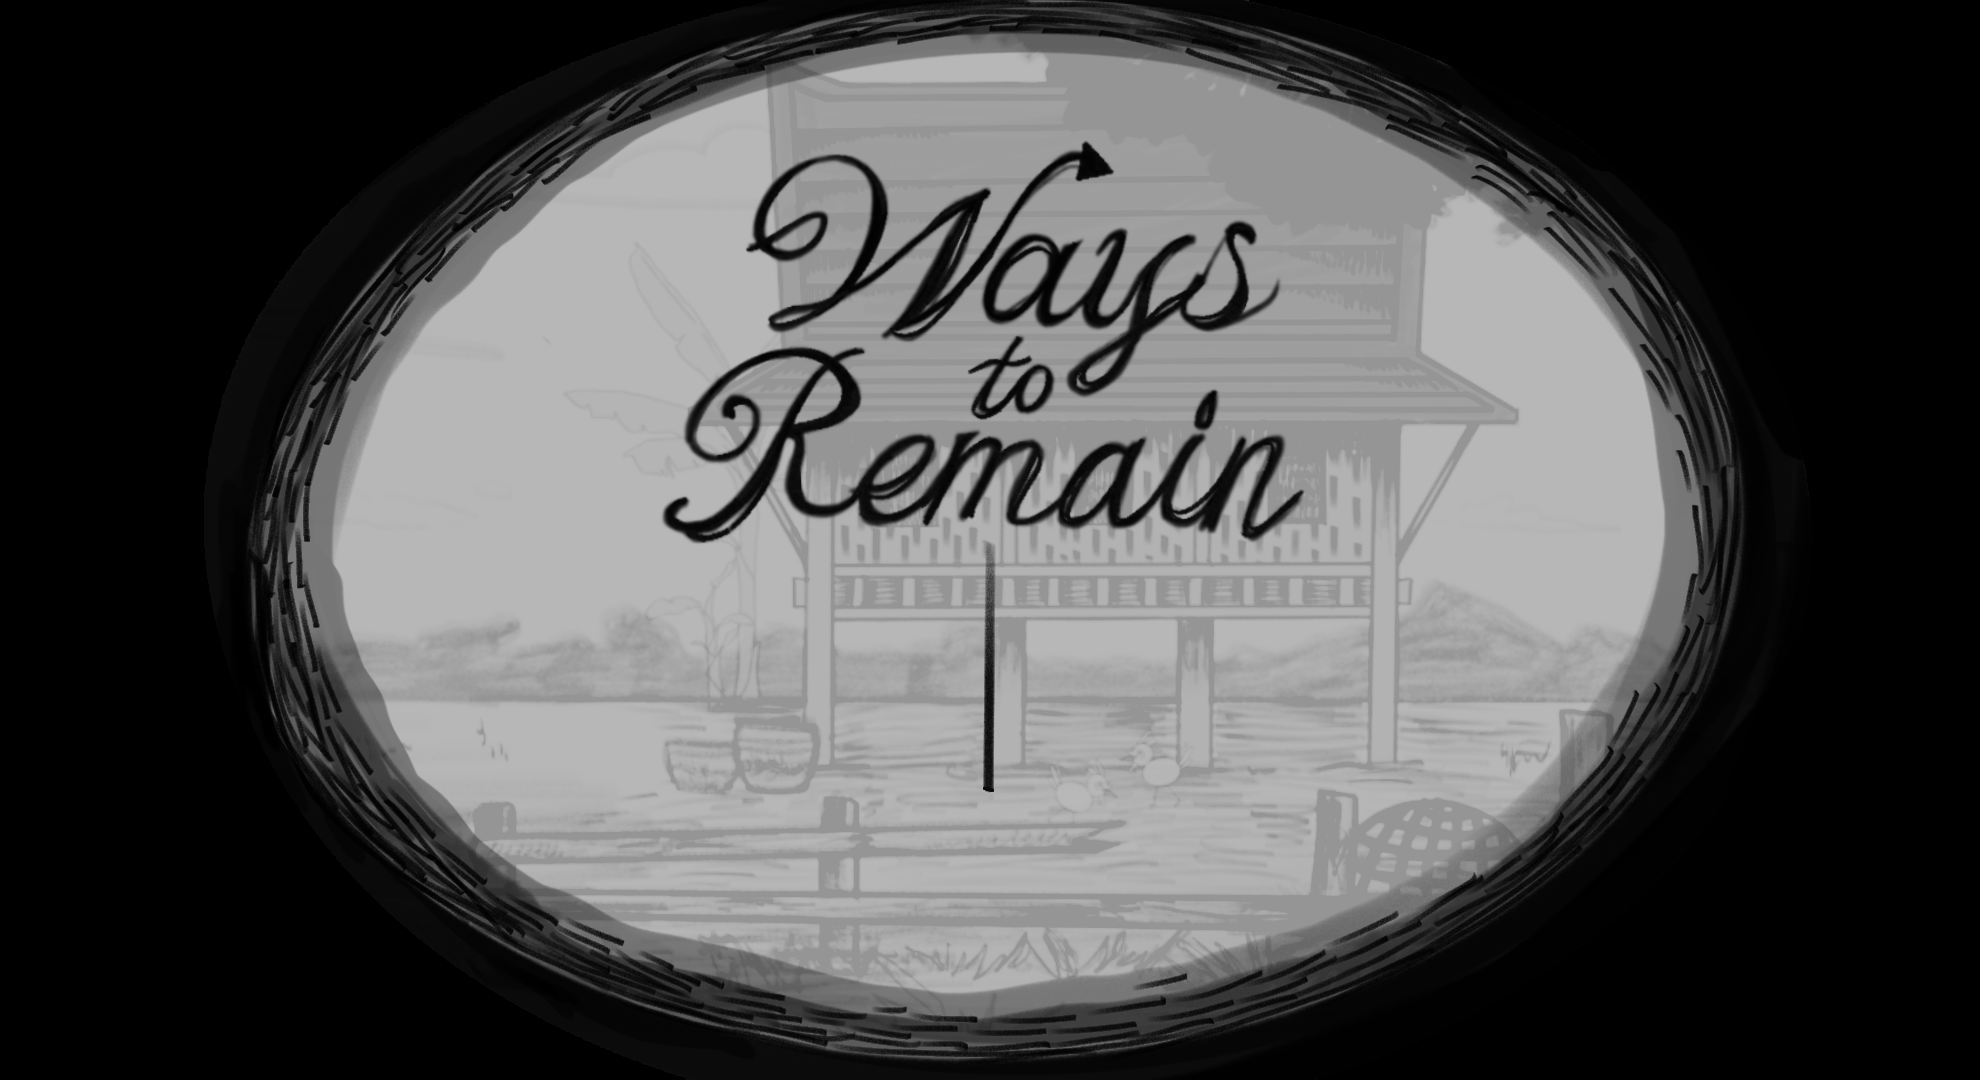
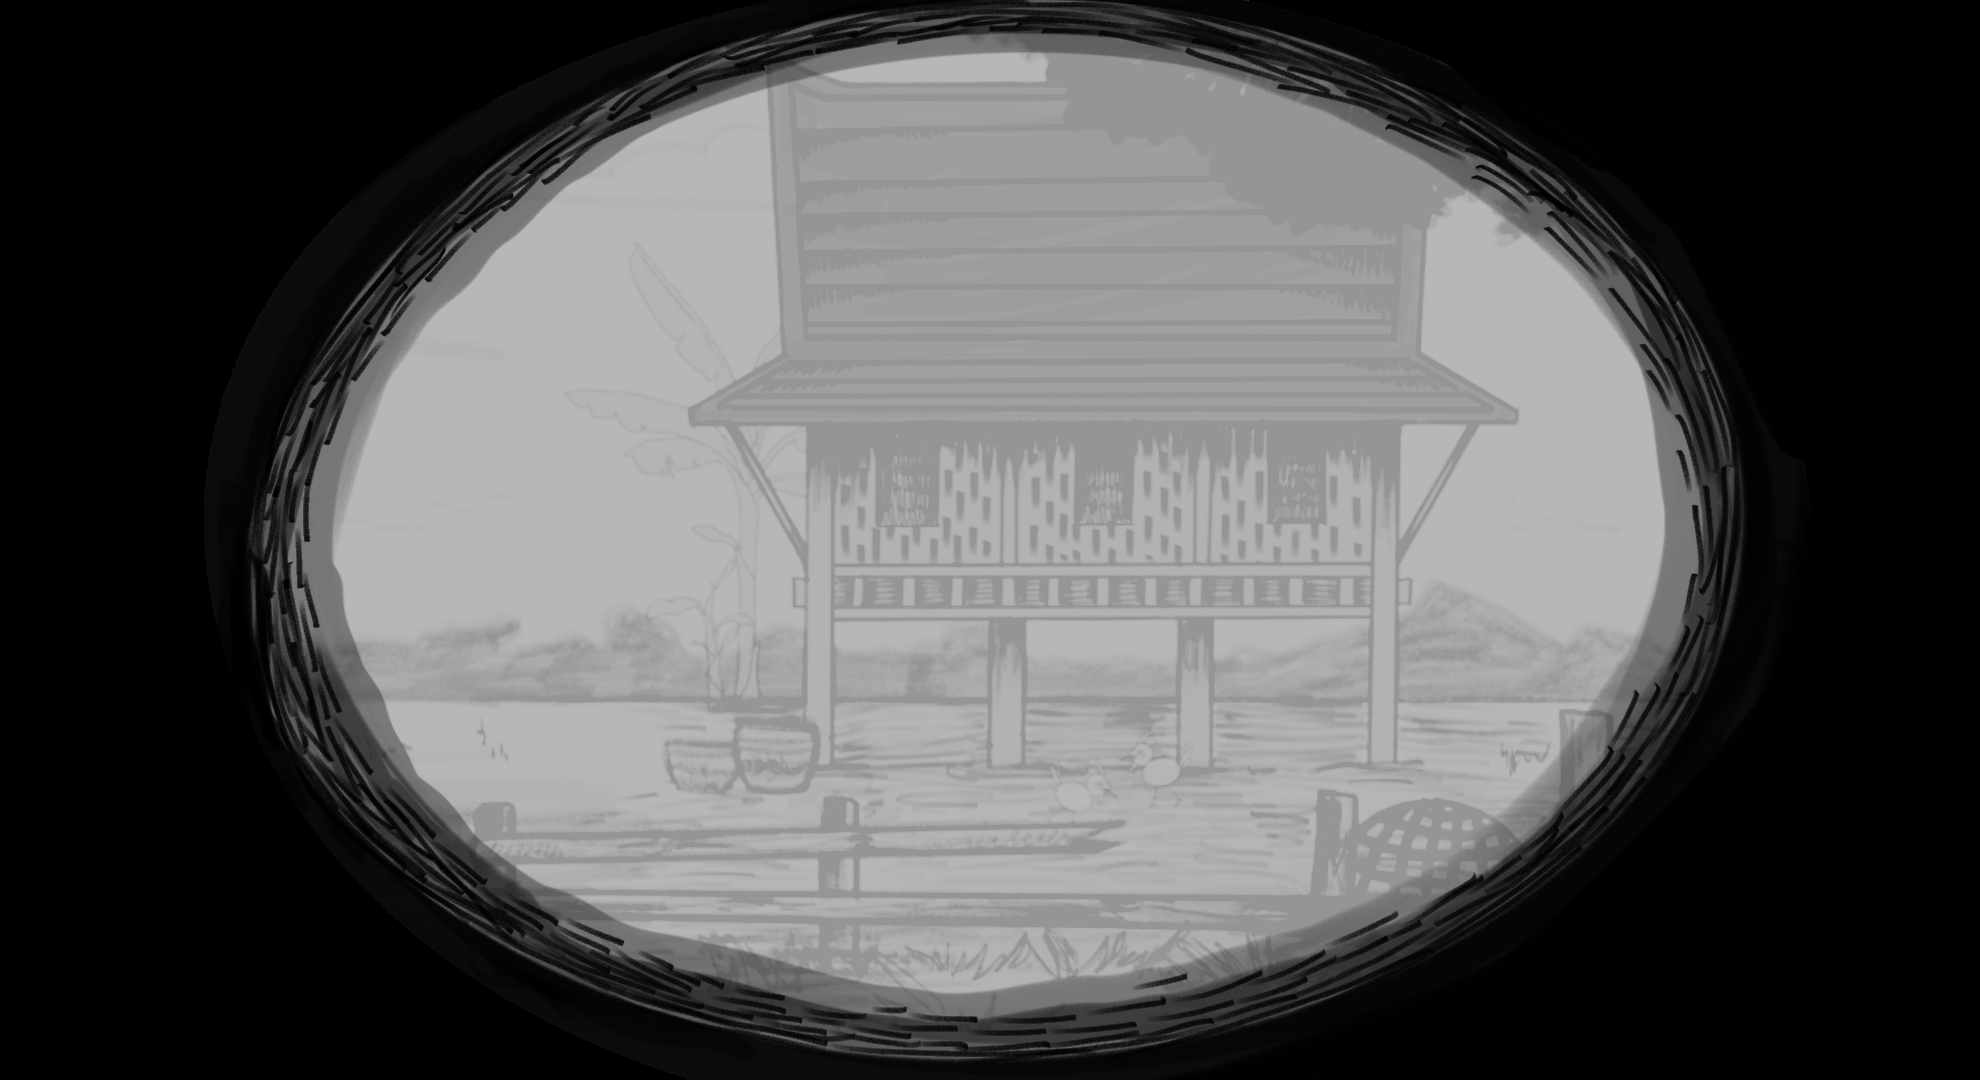
Seat the Japan monk on the ground shadow at reference scale

Changed region(s): [[0.3389, 0.1222, 0.6778, 0.5194], [0.4929, 0.5194, 0.5237, 0.7333], [0.4005, 0.1222, 0.4313, 0.1528]]

diff --git a/js/core/progress.js b/js/core/progress.js
@@ -7,14 +7,24 @@
   const ORDER = ['bangkok', 'roiet', 'papua', 'japan'];
   const KEY = 'wtr:done';
 
-  /* บางเครื่องปิด storage ไว้ (โหมดส่วนตัว / บล็อกคุกกี้) ถ้าพึ่ง localStorage อย่างเดียว
+  /* ใช้ sessionStorage ไม่ใช่ localStorage — ความคืบหน้าอยู่แค่ในรอบที่เปิดเบราว์เซอร์นั้น
+     ปิดแท็บแล้วเปิดใหม่ = เริ่มจากด่านแรกที่ล็อกไว้เหมือนเดิม
+     เพราะถ้าเก็บถาวร พอเล่นจบครั้งเดียวด่านจะเปิดหมดตลอดไป
+     แล้วคนที่มาเปิดดูทีหลังจะไม่ได้เห็นระบบล็อกด่านเลย
+     (เสียงเปิด/ปิดยังเก็บใน localStorage เหมือนเดิม อันนั้นเป็นค่าที่ตั้งไว้ ไม่ใช่ความคืบหน้า)
+
+     บางเครื่องปิด storage ไว้ (โหมดส่วนตัว / บล็อกคุกกี้) ถ้าพึ่ง storage อย่างเดียว
      ผู้เล่นจะติดอยู่ด่านแรกตลอดไป เลยมีตัวสำรองในหน่วยความจำไว้ให้เล่นจบได้ในรอบนั้น */
   let memory = null;
+
+  /* เวอร์ชันก่อนเก็บไว้ใน localStorage เครื่องที่เคยเล่นเวอร์ชันเก่าจะมีค่าค้างอยู่
+     ตอนนี้ไม่ได้อ่านแล้ว แต่เก็บกวาดทิ้งให้เรียบร้อย จะได้ไม่มีขยะค้างในเครื่องผู้เล่น */
+  try { localStorage.removeItem(KEY); } catch (e) {}
 
   function read() {
     if (memory) return memory.slice();
     try {
-      const raw = localStorage.getItem(KEY);
+      const raw = sessionStorage.getItem(KEY);
       return raw ? JSON.parse(raw) : [];
     } catch (e) {
       memory = [];
@@ -24,7 +34,7 @@
 
   function write(list) {
     if (memory) { memory = list.slice(); return; }
-    try { localStorage.setItem(KEY, JSON.stringify(list)); }
+    try { sessionStorage.setItem(KEY, JSON.stringify(list)); }
     catch (e) { memory = list.slice(); }
   }
 

diff --git a/data/japan-ritual.js b/data/japan-ritual.js
@@ -16,7 +16,13 @@ window.JAPAN_RITUAL = {
     cover: true,
     layers: [
       { id: 'bg',   src: '../assets/ritual/bg-japan.png' },
-      { id: 'monk', src: '../assets/ritual/japan/monk.png' },
+      /* ขนาดกับตำแหน่งอิงภาพ reference ที่ลูกค้าส่งมา
+         ต้องนั่งอยู่บน "เงาที่ขีดไว้" ในภาพพื้นหลัง ซึ่งอยู่ราวๆ y 78-90% ของแคนวาส
+         (ก่อนหน้านี้วางไว้ที่ 28% จากขอบล่าง ซึ่งบังเอิญไปตรงกับขอบบนของกล่องข้อความพอดี
+          เลยดูเหมือนพระนั่งอยู่บนกล่องข้อความแทนที่จะนั่งบนพื้น) */
+      { id: 'monk', src: '../assets/ritual/japan/monk.png',
+        place: { left: '50%', bottom: '13%', height: '76%',
+                 transform: 'translateX(-50%)' } },
       { id: 'hero', src: '../assets/ritual/japan/player.png',
         place: { left: '4%', bottom: '-4%', height: '82%' } }
     ]

diff --git a/css/title.css b/css/title.css
@@ -11,6 +11,14 @@
 
 .stage__bg { position: absolute; inset: 0; width: 100%; height: 100%; object-fit: fill; }
 
+/* โลโก้เป็นไฟล์แยกแล้ว (เดิมฝังมากับพื้นหลัง) วางกลางวงรีเหนือปุ่ม */
+.stage__logo {
+  position: absolute; left: 50%; top: 45%;
+  transform: translate(-50%, -50%);
+  width: 46%; height: auto;
+  pointer-events: none;
+}
+
 /* ลูกค้าขอเป็นปุ่มสี่เหลี่ยม บอกว่าตัวอักษรลอยๆ เฉยๆ มันโล่งไป
    แล้วขอให้เล็กลงอีก จะได้ไม่แย่งความเด่นไปจากโลโก้
    ปุ่มวางอยู่บนภาพสีอ่อน เลยใช้พื้นกระดาษ+ขอบหมึก พอ hover ก็สลับสีกัน */

diff --git a/data/manifest.js b/data/manifest.js
@@ -37,7 +37,7 @@ window.MANIFEST = {
     ["./assets/ritual/bg-japan.png", 750967],
     ["./assets/ritual/bg.png", 377837],
     ["./assets/ritual/japan/bowl.png", 184110],
-    ["./assets/ritual/japan/monk.png", 553133],
+    ["./assets/ritual/japan/monk.png", 495934],
     ["./assets/ritual/japan/player.png", 383746],
     ["./assets/ritual/papua/applied-clay.png", 103649],
     ["./assets/ritual/papua/applied-smoke.png", 132765],
@@ -51,7 +51,8 @@ window.MANIFEST = {
     ["./assets/roiet/coffin.png", 441979],
     ["./assets/roiet/scene.png", 2856549],
     ["./assets/roiet/villager.png", 159570],
-    ["./assets/title/title-bg.png", 821617],
+    ["./assets/title/title-bg.png", 547085],
+    ["./assets/title/title-logo.png", 67278],
     ["./assets/ui/brush-tag.svg", 1348],
     ["./assets/ui/dialog-p5.png", 46795]
   ],

diff --git a/index.html b/index.html
@@ -17,7 +17,9 @@
   <div class="stage__cam" id="cam">
     <img class="stage__bg" src="./assets/title/title-bg.png" alt="">
 
-    <!-- โลโก้ "Ways to Remain" วาดมาในไฟล์ภาพแล้ว หน้านี้เติมเฉพาะปุ่ม Begin Journey -->
+    <!-- พื้นหลังใหม่ไม่มีโลโก้ฝังมาแล้ว ลูกค้าแยกไฟล์โลโก้มาให้ต่างหาก -->
+    <img class="stage__logo" src="./assets/title/title-logo.png" alt="Ways to Remain">
+
     <button class="start" id="startBtn" type="button">Begin Journey</button>
   </div>
 </div>

diff --git a/README.md b/README.md
@@ -143,9 +143,15 @@ assets/
 > ถ้าลูกค้าอยากได้ลำดับอื่น แก้ `ORDER` ใน `js/core/progress.js` บรรทัดเดียวพอ
 > เลขปุ่มกับลำดับด่านเป็นคนละเรื่องกัน เลขปุ่มคือตำแหน่งบนหนังสือเดินทางเฉยๆ
 
-ความคืบหน้าเก็บใน `localStorage` คีย์ `wtr:done`
-เครื่องที่ปิด storage ไว้จะใช้ตัวสำรองในหน่วยความจำแทน เล่นจบได้ในรอบนั้นแต่ไม่ถูกจำข้ามรอบ
-อยากล้างความคืบหน้าเรียก `Progress.reset()` ใน console
+ความคืบหน้าเก็บใน **`sessionStorage`** คีย์ `wtr:done` — อยู่แค่ในแท็บที่เปิดอยู่
+เปลี่ยนหน้าไปมาในแท็บเดิมยังจำได้ แต่ปิดแท็บแล้วเปิดใหม่จะกลับไปล็อกเหมือนเดิม
+
+จงใจไม่เก็บถาวร เพราะถ้าเก็บใน `localStorage` พอเล่นจบครั้งเดียวด่านจะเปิดหมดตลอดไป
+แล้วคนที่มาเปิดดูรอบถัดไปจะไม่เห็นระบบล็อกด่านเลย นึกว่าพัง
+(ค่าเปิด/ปิดเสียงยังอยู่ใน `localStorage` เหมือนเดิม อันนั้นเป็นค่าที่ผู้เล่นตั้งไว้ ไม่ใช่ความคืบหน้า)
+
+เครื่องที่ปิด storage ไว้จะใช้ตัวสำรองในหน่วยความจำแทน เล่นจบได้ในรอบนั้น
+อยากล้างระหว่างเทสต์เรียก `Progress.reset()` ใน console หรือเปิดแท็บใหม่ก็พอ
 
 ### ฉากทำพิธี (มินิเกมลากไอเทม)
 
@@ -206,6 +212,14 @@ assets/
 
 `beats` รองรับ `hide` (ซ่อน layer), `caption:false` (เก็บป้าย), `hold` (ค้างกี่ ms),
 `lines` (กล่องข้อความ) และ `epilogue` (เฟดดำขึ้นข้อความทีละบรรทัด)
+
+ตัวพระกำหนดขนาดเองด้วย `place` อิงภาพ reference ที่ลูกค้าส่งมา
+สูง 76% ของกรอบฉาก ฐานอยู่ที่ `bottom: 13%` ซึ่งตรงกับ "เงาที่ขีดไว้" บนพื้นในภาพพื้นหลัง
+(วัดจากตัวไฟล์ พื้นที่ขีดเงาอยู่ราวๆ y 78-90% ของแคนวาส ฐานพระตกที่ 87% พอดี)
+
+> รอบก่อนวางฐานไว้ที่ 28% จากขอบล่าง ซึ่งบังเอิญไปตรงกับขอบบนของกล่องข้อความพอดี
+> เลยดูเหมือนพระนั่งอยู่บนกล่องข้อความ ไม่ใช่นั่งบนพื้น เวลาจัดตำแหน่งต้องอิงจากภาพพื้นหลัง
+> ไม่ใช่จากสิ่งที่เห็นบนจอ เพราะบนจอมี UI ซ้อนอยู่ด้วย
 
 > จังหวะ beat เริ่มนับหลังภาพฉากโหลดเสร็จเท่านั้น
 > ถ้าเริ่มนับทันทีที่สคริปต์รัน บนเน็ตช้าๆ ซีนแรกจะหมดเวลาไปตั้งแต่ยังไม่ทันเห็นอะไร
@@ -351,6 +365,13 @@ sfx ที่ใช้ในมินิเกม เลือกจากที
   แต่ในฉากพิธีญี่ปุ่นยังไม่ได้ใช้ ถ้าลูกค้าอยากให้มีบทบาทมากกว่านี้ต้องบอกมา
 - `Player.PNG` ต้นฉบับในโฟลเดอร์ลูกค้าขนาด 6614×9354 (~8 MB) ย่อเหลือ 605×1500 แล้วก่อนเอาเข้า
 - `css/pending.css` ไม่มีหน้าไหนเรียกใช้แล้ว ลบได้
+
+### ส่งออกกล่องพู่กันให้ลูกค้า
+
+ลูกค้าขอไฟล์ PNG ของกล่องพู่กัน (`brush-tag.svg`) ไปทำใบคอนเซป
+ไฟล์ต้นฉบับเป็น SVG ที่เขียนด้วยโค้ด ไม่ใช่ภาพ เลย render ออกมาเป็น PNG พื้นหลังโปร่งใสให้
+ถ้าต้องการขนาดอื่นอีก เปิดหน้าเกมแล้ววาด SVG ลง canvas ตามขนาดที่ต้องการ แล้ว export ได้เลย
+เพราะเป็น vector จะขยายเท่าไหร่ก็ไม่แตก
 
 ### หนี้ทางเทคนิค
 

diff --git a/CREDITS.md b/CREDITS.md
@@ -19,7 +19,8 @@ permission. See [LICENSE](LICENSE).
 
 | File | What it is |
 |---|---|
-| `assets/title/title-bg.png` | Title screen painting, including the hand-lettered "Ways to Remain" logo |
+| `assets/title/title-bg.png` | Title screen painting (client's "new start page" — logo no longer baked in) |
+| `assets/title/title-logo.png` | Hand-lettered "Ways to Remain" logo — cropped and downscaled by the developer from the client's 4961 × 7016 original |
 | `assets/title/intro.mp4` | Animated opening sequence |
 | `assets/lobby/passport.png` | Passport spread used as the stage-select background |
 | `assets/lobby/ticket-roiet.png` | Roi Et bus ticket (stage 1 button) |
